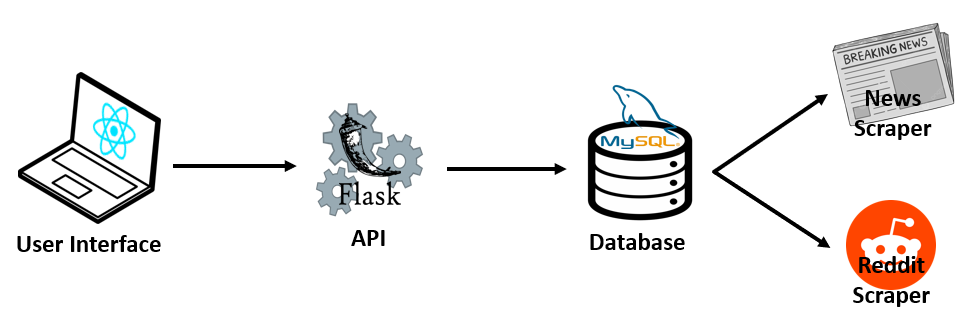
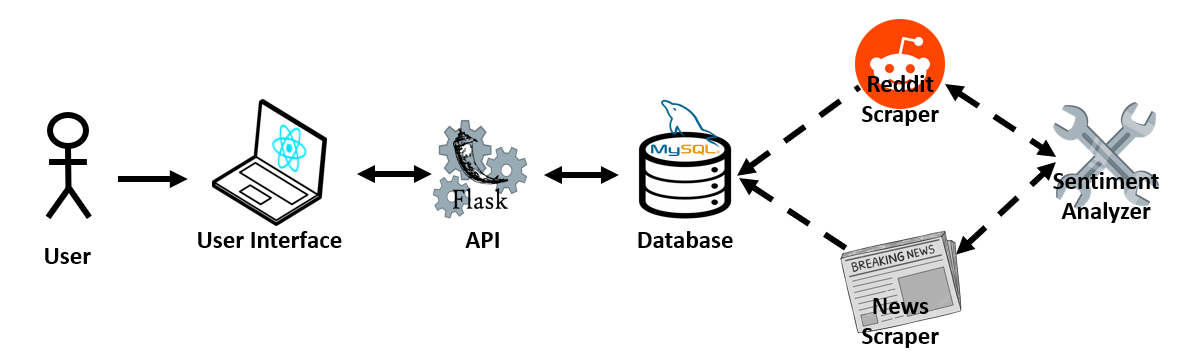
News Diagrams, updated readme, added troubleshooting scenarios

diff --git a/README.md b/README.md
@@ -3,6 +3,7 @@
 Introducing our innovative project, a **Stock Market Sentiment Analyzer Tool**, developed by **Hugo Paré (#300173735)** and **Jayden Bergevin (#300173747)** for our Capstone project in the **SEG4910-4911 class**. The mission of the **"Sheep Indicator"** is to offer valuable insight to investors aiming to decode the market sentiments efficiently.
 
 # Table of contents
+* [Installation Guide](#installation-guide)
 * [Architecture](#architecture)
 * [Scraping APIs](#scraping-apis)
   * [Reddit](#reddit)
@@ -26,6 +27,36 @@ Introducing our innovative project, a **Stock Market Sentiment Analyzer Tool**, 
   * [Docker](#docker)
   * [Selenium](#selenium)
 * [Troubleshooting](#troubleshooting)
+  * [Issues with local deployment](#issues-with-local-deployment)
+  * [Issues with Docker services](#issues-with-docker-services)
+  * [Issues with MySQL](#issues-with-mysql)
+
+# Installation Guide
+
+These steps are based on an Ubuntu environment but should work similarly on other systems that support Docker.
+
+To run the project locally, follow these steps:
+
+### Clone the repository
+
+Run the following commands:
+
+```bash
+git clone <repository-url>
+cd <repository-folder>
+```
+
+### Start the services with Docker
+
+Run the following command to initialize the entire system, including the user interface and backend:
+
+```bash
+docker compose up -d
+```
+
+### Access the User Interface
+
+Once the services are running, the React UI will be available at http://localhost:3000
 
 # Architecture
 
@@ -34,6 +65,7 @@ This architecture diagram provides a high-level view of how the different compon
 * **Flask API**: The Flask API acts as the backend, handling requests from the React UI, it processes the data, interacts with the database, and returns the sentiment of the requested company
 * **MySQL Database**: All data is stored and managed in a MySQL database, the database is updated regularly by scrapers
 * **News Scraper and Reddit Scraper**: These scrapers gather news and Reddit data for sentiment analysis relevant to specific stock tickers or companies, which are then stored in the database
+* **Sentiment Analyzer**: The Sentiment Analyzer processes the gathered data and user input, analyzing the text to determine the sentiment score, which reflects the overall tone of the input.
 
 **Architecture diagram:**
 
@@ -43,18 +75,7 @@ This architecture diagram provides a high-level view of how the different compon
 
 ## Reddit
 
-The Python Reddit API used in this project was made by [PRAW](https://praw.readthedocs.io/en/stable/). It was used to scrape posts and comments from different subreddits. Posts and comments from a specific stock (example: NVDA) were scraped following this technique:
-
-```
-if a post mentions NVDA:
--> include the post
--> include all the comments associated with the post
-
-otherwise:
--> include only comments mentioning NVDA
-```
-
-This way, only comments that are related to NVDA are taken into consideration for the sentiment analysis.
+The Python Reddit API utilizes [PRAW](https://praw.readthedocs.io/en/stable/) to scrape posts and comments from various subreddits. The scraping process targets posts and comments related to specific stock tickers (e.g., NVDA). By searching for mentions of the stock ticker within the post titles or content, only comments relevant to that stock are selected for sentiment analysis. This ensures that the analysis focuses on discussions directly associated with the target stock.
 
 ## News
 
@@ -179,7 +200,9 @@ This deployment diagram illustrates the following key components:
 * **API (Flask)**: A Flask API that processes requests from the UI and interacts with the database
 * **Database (MySQL)**: Stores the data processed by the scrapers
 * **GitHub Actions**: A CI/CD pipeline responsible for running unit tests on the database and scrapers and also updating the database periodically
-* **Docker Container**: The services are encapsulated within a Docker container to ensure consistent deployment across environment
+* **Docker**: The services are encapsulated within a Docker container to ensure consistent deployment across environment
+* **Sentiment analyzer**: Analyzes text data (comments, news) and returns a sentiment score
+* **Data Dump**: `.sql` files stored in the GitHub repo, used to populate the database with pre-saved data during initialization
 
 **Deployment diagram:**
 
@@ -201,7 +224,7 @@ This automated process ensures that our core components maintain data integrity 
 
 ## Docker
 
-The API and MySQL Database run in a Docker container, ensuring consistent and reproducible environments across different systems. As we continue to improve our scrapers, they will be added to the containerized environment once they reach a stable and production-ready state.
+The User Interface, API and MySQL Database run in different Docker container, ensuring consistent and reproducible environments across different systems. As we continue to improve our scrapers, they will be added to the containerized environment once they reach a stable and production-ready state.
 
 ## Selenium
 
@@ -209,4 +232,51 @@ Not implemented.
 
 # Troubleshooting
 
-Coming Soon.
+## Issues with local deployment
+
+If the installation guide did not resolve the issue, you may need to obtain specific credentials and set environment variables. These credentials are required for scraping Reddit, accessing two different news APIs, and connecting to the database. Please contact Hugo Paré (hpare040@uottawa.ca) for the credentials.
+
+Once you have the credentials, export the necessary environment variables like so:
+
+```bash
+export <VARIABLE_NAME>=<VALUE>
+```
+
+## Issues with Docker services
+
+If running docker compose up -d fails, you can troubleshoot by inspecting the status of the Docker containers. Use the following command to check:
+```bash
+docker ps
+```
+
+You should see output similar to this:
+```bash
+CONTAINER ID   IMAGE          COMMAND                  CREATED         STATUS         PORTS                                                    NAMES
+84ed9f55ce95   python:3.9     "sh -c 'pip install …"   6 seconds ago   Up 5 seconds   0.0.0.0:5000->5000/tcp, :::5000->5000/tcp                api
+f4c5629d9bf9   node:14        "docker-entrypoint.s…"   6 seconds ago   Up 5 seconds   0.0.0.0:3000->3000/tcp, :::3000->3000/tcp                react-ui
+da82b19e4966   mysql:latest   "docker-entrypoint.s…"   6 seconds ago   Up 5 seconds   33060/tcp, 0.0.0.0:3307->3306/tcp, [::]:3307->3306/tcp   mysql-db
+```
+
+If a container is not running as expected, you can check its logs using:
+```bash
+docker logs <container_name>
+```
+
+## Issues with MySQL
+
+If you encounter issues with MySQL, you will need to verify that the database is running correctly. Use the following command to check the databases:
+```bash
+docker exec mysql-db mysql -h mysql -u root -p<password> -e "SHOW DATABASES;"
+```
+
+If `MarketSentiment` is listed, you can check the tables in the database:
+```bash
+docker exec mysql-db mysql -h mysql -u root -p<password> -D MarketSentiment -e "SHOW TABLES;"
+```
+
+If the tables are present but not populated correctly, you can check the row count for a specific table:
+```bash
+docker exec mysql-db mysql -h mysql -u root -p<password> -D MarketSentiment -e "SELECT COUNT(*) FROM REDDIT_NVDA_DATA;"
+```
+
+If the result is `0`, the issue might be with the database initialization. Refer to the `initializeDatabase.sh` script for more details on fixing this.
